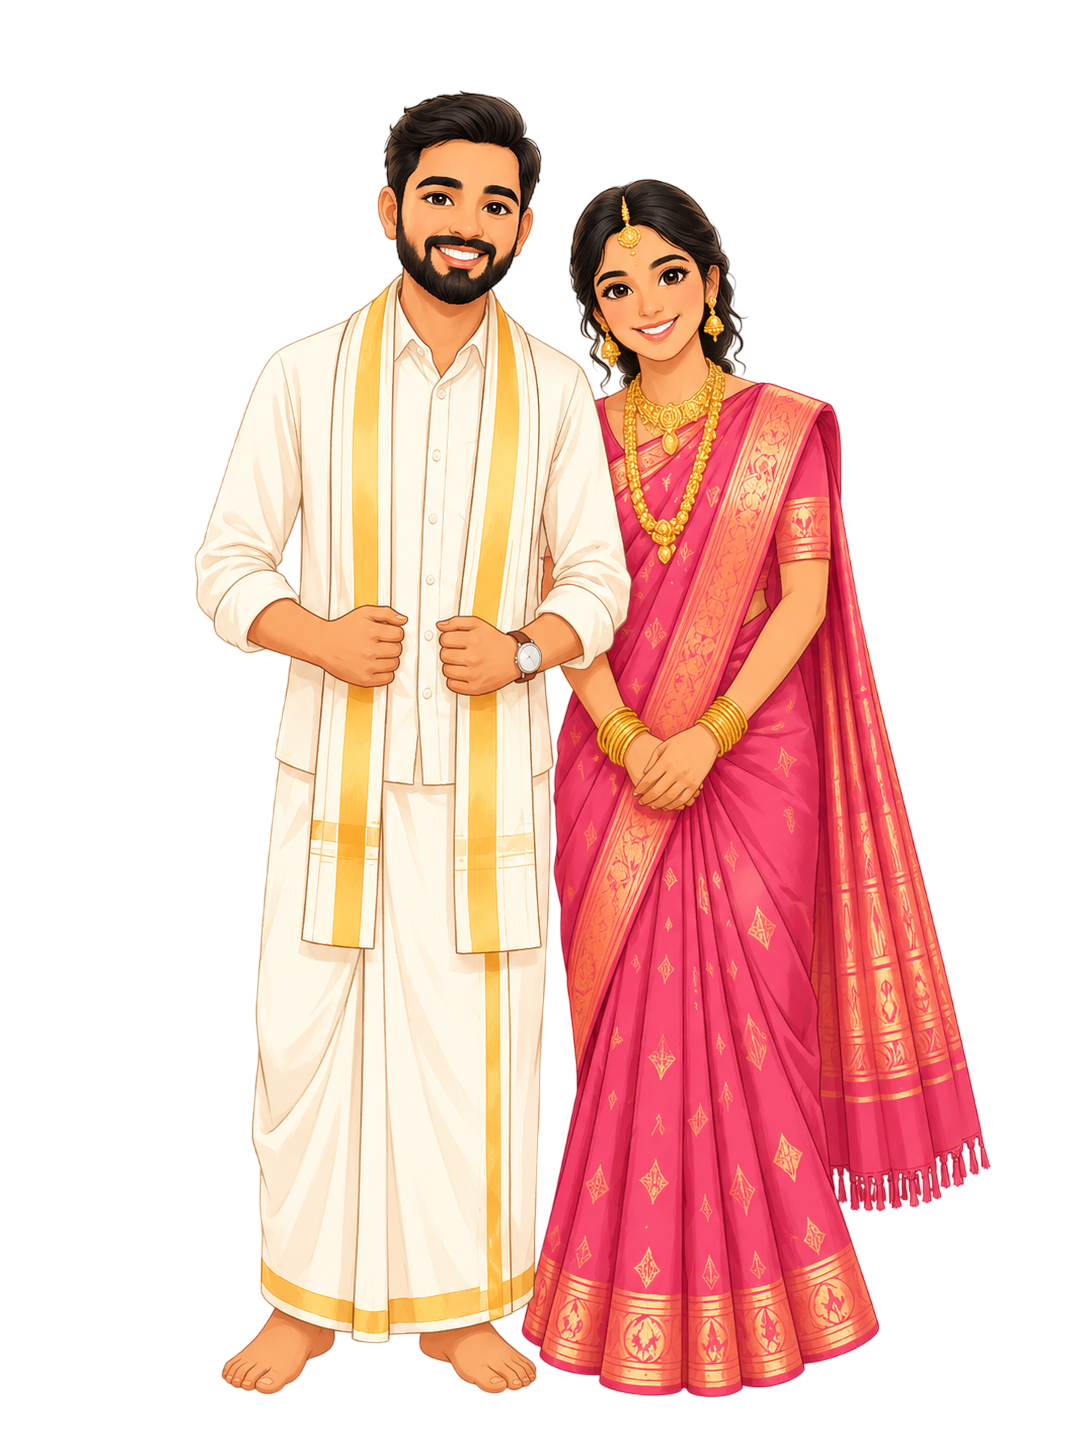
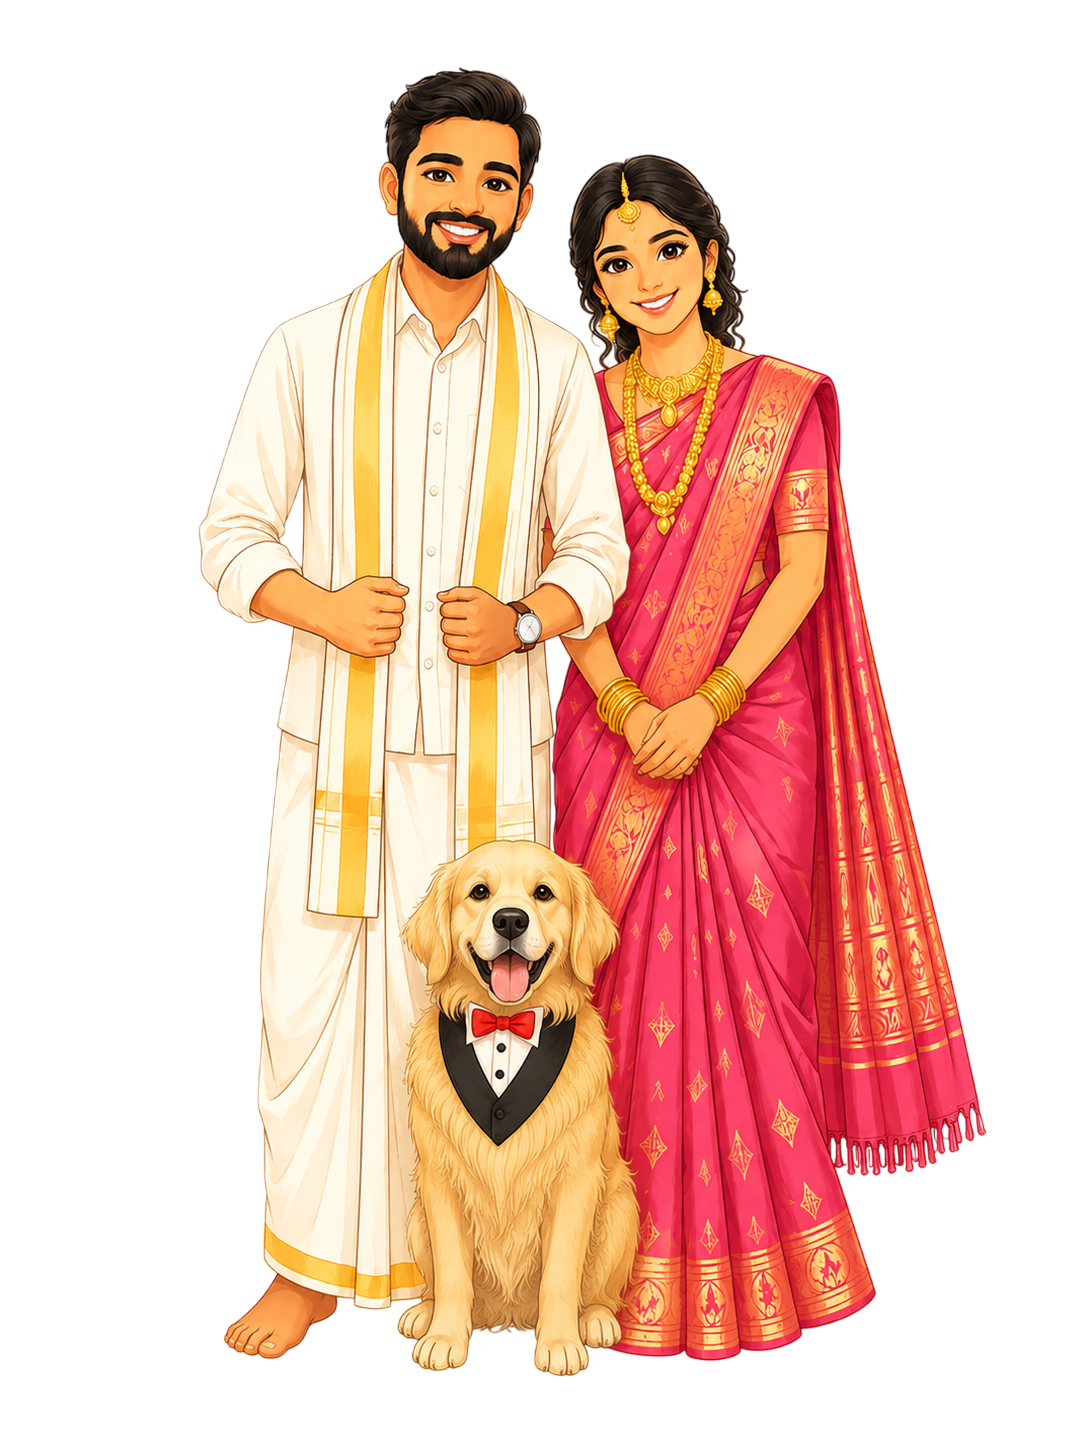
Danny mascot

diff --git a/src/components/DannyMascot.tsx b/src/components/DannyMascot.tsx
@@ -1,0 +1,93 @@
+import { useEffect, useState } from 'react';
+import { AnimatePresence, motion, useReducedMotion } from 'framer-motion';
+import { WEDDING } from '@/lib/config';
+
+type Size = 'sm' | 'md' | 'lg' | 'xl';
+
+type Props = {
+  messages: ReadonlyArray<string>;
+  alt: string;
+  size?: Size;
+  /** If true, the bubble is shown by default with the first message
+   *  and rotates through the rest on click. Use for places where Danny
+   *  is making a persistent ask (e.g. the RSVP nudge). */
+  initialBubble?: boolean;
+  /** Auto-cycle the bubble through messages every N seconds. */
+  autoCycleSeconds?: number;
+};
+
+const SIZE_CLASS: Record<Size, string> = {
+  sm: 'w-24 sm:w-28',
+  md: 'w-32 sm:w-40',
+  lg: 'w-44 sm:w-56',
+  xl: 'w-56 sm:w-72 lg:w-96',
+};
+
+export default function DannyMascot({
+  messages,
+  alt,
+  size = 'md',
+  initialBubble = false,
+  autoCycleSeconds,
+}: Readonly<Props>) {
+  const reduce = useReducedMotion();
+  const [idx, setIdx] = useState(initialBubble ? 0 : -1);
+
+  const base = import.meta.env.BASE_URL;
+  const src = `${base}${WEDDING.dannyImage}`.replace('//', '/');
+
+  // Optional auto-rotation through the messages.
+  useEffect(() => {
+    if (!autoCycleSeconds || idx < 0 || messages.length < 2) return;
+    const id = globalThis.setTimeout(() => {
+      setIdx((i) => (i + 1) % messages.length);
+    }, autoCycleSeconds * 1000);
+    return () => globalThis.clearTimeout(id);
+  }, [autoCycleSeconds, idx, messages.length]);
+
+  function handleClick() {
+    setIdx((i) => (i < 0 ? 0 : (i + 1) % messages.length));
+  }
+
+  const current = idx >= 0 ? messages[idx] : null;
+
+  return (
+    <div className="flex flex-col items-center select-none">
+      <div className="relative">
+        {/* Bubble wrapper spans the exact width of Danny (button) and flex-centers
+            the speech bubble above his head — bulletproof centering. */}
+        <AnimatePresence mode="wait">
+          {current !== null && (
+            <motion.div
+              key={idx}
+              initial={reduce ? false : { opacity: 0, y: 8, scale: 0.92 }}
+              animate={{ opacity: 1, y: 0, scale: 1 }}
+              exit={reduce ? undefined : { opacity: 0, scale: 0.92 }}
+              transition={{ duration: 0.35, ease: [0.22, 1, 0.36, 1] }}
+              className="absolute inset-x-0 top-0 -translate-y-[85%] flex justify-center pointer-events-none"
+            >
+              <div className="relative bg-white border border-maroon/20 rounded-2xl shadow-premium px-3 sm:px-4 py-2 text-maroon h-display font-bold text-xs sm:text-base text-center leading-tight w-max max-w-[170px] sm:max-w-[240px]">
+                {current}
+                <div className="absolute left-1/2 -translate-x-1/2 -bottom-2 w-0 h-0 border-l-8 border-r-8 border-t-8 border-l-transparent border-r-transparent border-t-white" />
+              </div>
+            </motion.div>
+          )}
+        </AnimatePresence>
+
+        <button
+          type="button"
+          onClick={handleClick}
+          aria-label={alt}
+          className={`${SIZE_CLASS[size]} block danny-bob rounded-2xl focus:outline-none focus:ring-2 focus:ring-gold/50`}
+        >
+          <img
+            src={src}
+            alt={alt}
+            draggable={false}
+            className="w-full h-auto select-none"
+          />
+        </button>
+      </div>
+    </div>
+  );
+}

diff --git a/src/data/locales.ts b/src/data/locales.ts
@@ -37,6 +37,9 @@ type Locale = {
   rsvpEmailBody: string;
   musicOn: string;
   musicOff: string;
+  dannyHeroMessages: ReadonlyArray<string>;
+  dannyRsvpMessages: ReadonlyArray<string>;
+  dannyAlt: string;
   footerNote: string;
 };
 
@@ -97,6 +100,22 @@ Message:
 Best wishes!`,
     musicOn: 'Mute music',
     musicOff: 'Play music',
+    dannyAlt: 'Danny',
+    dannyHeroMessages: [
+      'Woof! Welcome!',
+      'So happy you came! 🐾',
+      'Save the date!',
+      'Best day ever! 🎉',
+      'Pet me later, okay?',
+    ],
+    dannyRsvpMessages: [
+      "Woof! I'm Danny 🐾",
+      'Please RSVP!',
+      "Don't keep me waiting!",
+      "I'm watching… 👀",
+      'Did you tell us yet?',
+      'Woof woof — respond pls!',
+    ],
     footerNote: 'Made with love for our families & friends',
   },
   kn: {
@@ -155,6 +174,21 @@ Best wishes!`,
 ಶುಭಾಶಯಗಳು!`,
   musicOn: 'ಸಂಗೀತವನ್ನು ನಿಲ್ಲಿಸಿ',
   musicOff: 'ಸಂಗೀತವನ್ನು ಪ್ಲೇ ಮಾಡಿ',
-  footerNote: 'ನಮ್ಮ ಕುಟುಂಬ ಮತ್ತು ಸ್ನೇಹಿತರಿಗೆ ಪ್ರೀತಿಯಿಂದ',  // cleaner word order
+  dannyAlt: 'ಡ್ಯಾನಿ',
+  dannyHeroMessages: [
+    'ಬೌ ಬೌ! ಸ್ವಾಗತ!',
+    'ಬಂದಿದ್ದಕ್ಕೆ ಧನ್ಯವಾದ! 🐾',
+    'ದಿನಾಂಕ ನೆನಪಿಡಿ!',
+    'ಸಂತೋಷದ ದಿನ! 🎉',
+  ],
+  dannyRsvpMessages: [
+    'ಬೌ ಬೌ! ನಾನು ಡ್ಯಾನಿ 🐾',
+    'ಆರ್.ಎಸ್.ವಿ.ಪಿ. ಮಾಡಿ!',
+    'ನನ್ನನ್ನು ಕಾಯಿಸಬೇಡಿ!',
+    'ನಾನು ನೋಡ್ತಾ ಇದ್ದೀನಿ… 👀',
+    'ತಿಳಿಸಿದ್ರಾ?',
+    'ಬೌ ಬೌ — ಉತ್ತರ ಕಳುಹಿಸಿ!',
+  ],
+  footerNote: 'ನಮ್ಮ ಕುಟುಂಬ ಮತ್ತು ಸ್ನೇಹಿತರಿಗೆ ಪ್ರೀತಿಯಿಂದ', 
 },
 };

diff --git a/src/index.css b/src/index.css
@@ -144,6 +144,18 @@ body {
   100% { transform: scale(1.06) translateY(-1.5%); }
 }
 
+/* ===== Danny mascot idle bob ===== */
+.danny-bob {
+  animation: danny-bob 4.5s ease-in-out infinite;
+  transform-origin: 50% 100%;
+  will-change: transform;
+}
+@keyframes danny-bob {
+  0%, 100% { transform: translateY(0) rotate(0deg); }
+  25%      { transform: translateY(-3px) rotate(-1deg); }
+  75%      { transform: translateY(-3px) rotate(1deg); }
+}
+
 /* ===== Music button pulse ring ===== */
 .animate-music-pulse {
   animation: music-pulse 2.6s ease-out infinite;
@@ -191,7 +203,8 @@ body {
   .gold-shimmer,
   .bg-ken-burns,
   .branch-sway,
-  .animate-music-pulse {
+  .animate-music-pulse,
+  .danny-bob {
     animation: none !important;
   }
   html { scroll-behavior: auto; }

diff --git a/src/components/RSVP.tsx b/src/components/RSVP.tsx
@@ -2,6 +2,7 @@ import type { locales } from '@/data/locales';
 import { WEDDING, type RsvpContact, type RsvpRole } from '@/lib/config';
 import Reveal from '@/components/decor/Reveal';
 import { FlourishDivider } from '@/components/decor/Ornaments';
+import DannyMascot from '@/components/DannyMascot';
 
 type Props = { t: (typeof locales)['en'] };
 
@@ -132,6 +133,18 @@ export default function Rsvp({ t }: Readonly<Props>) {
               </div>
             </div>
           )}
+        </div>
+      </Reveal>
+
+      <Reveal delay={0.2}>
+        <div className="mt-16 sm:mt-20 flex justify-center">
+          <DannyMascot
+            messages={t.dannyRsvpMessages}
+            alt={t.dannyAlt}
+            size="xl"
+            initialBubble
+            autoCycleSeconds={4}
+          />
         </div>
       </Reveal>
     </section>

diff --git a/src/components/Hero.tsx b/src/components/Hero.tsx
@@ -126,7 +126,7 @@ export default function Hero({ t }: Readonly<Props>) {
               src={coupleSrc}
               alt={t.coupleAlt}
               onError={() => setImgOk(false)}
-              className="max-h-[320px] sm:max-h-[440px] lg:max-h-[520px] w-auto mx-auto select-none drop-shadow-[0_12px_24px_rgba(107,27,27,0.18)]"
+              className="max-h-[320px] sm:max-h-[440px] lg:max-h-[520px] w-auto mx-auto select-none"
               draggable={false}
             />
           ) : (
@@ -158,6 +158,7 @@ export default function Hero({ t }: Readonly<Props>) {
           </div>
         </motion.div>
       </div>
+
     </header>
   );
 }

diff --git a/src/lib/config.ts b/src/lib/config.ts
@@ -25,6 +25,7 @@ export const WEDDING = {
   templeBgMobile: 'assets/temple-bg-mobile.jpg',
   templeBgDesktop: 'assets/temple-bg-desktop.png',
   musicFile: 'wedding_music.mp3',
+  dannyImage: 'assets/danny-dog.png',
 
   // RSVP contacts. Leave a field as '' to hide that channel for that person.
   // The RSVP section only renders contacts whose fields are non-empty,